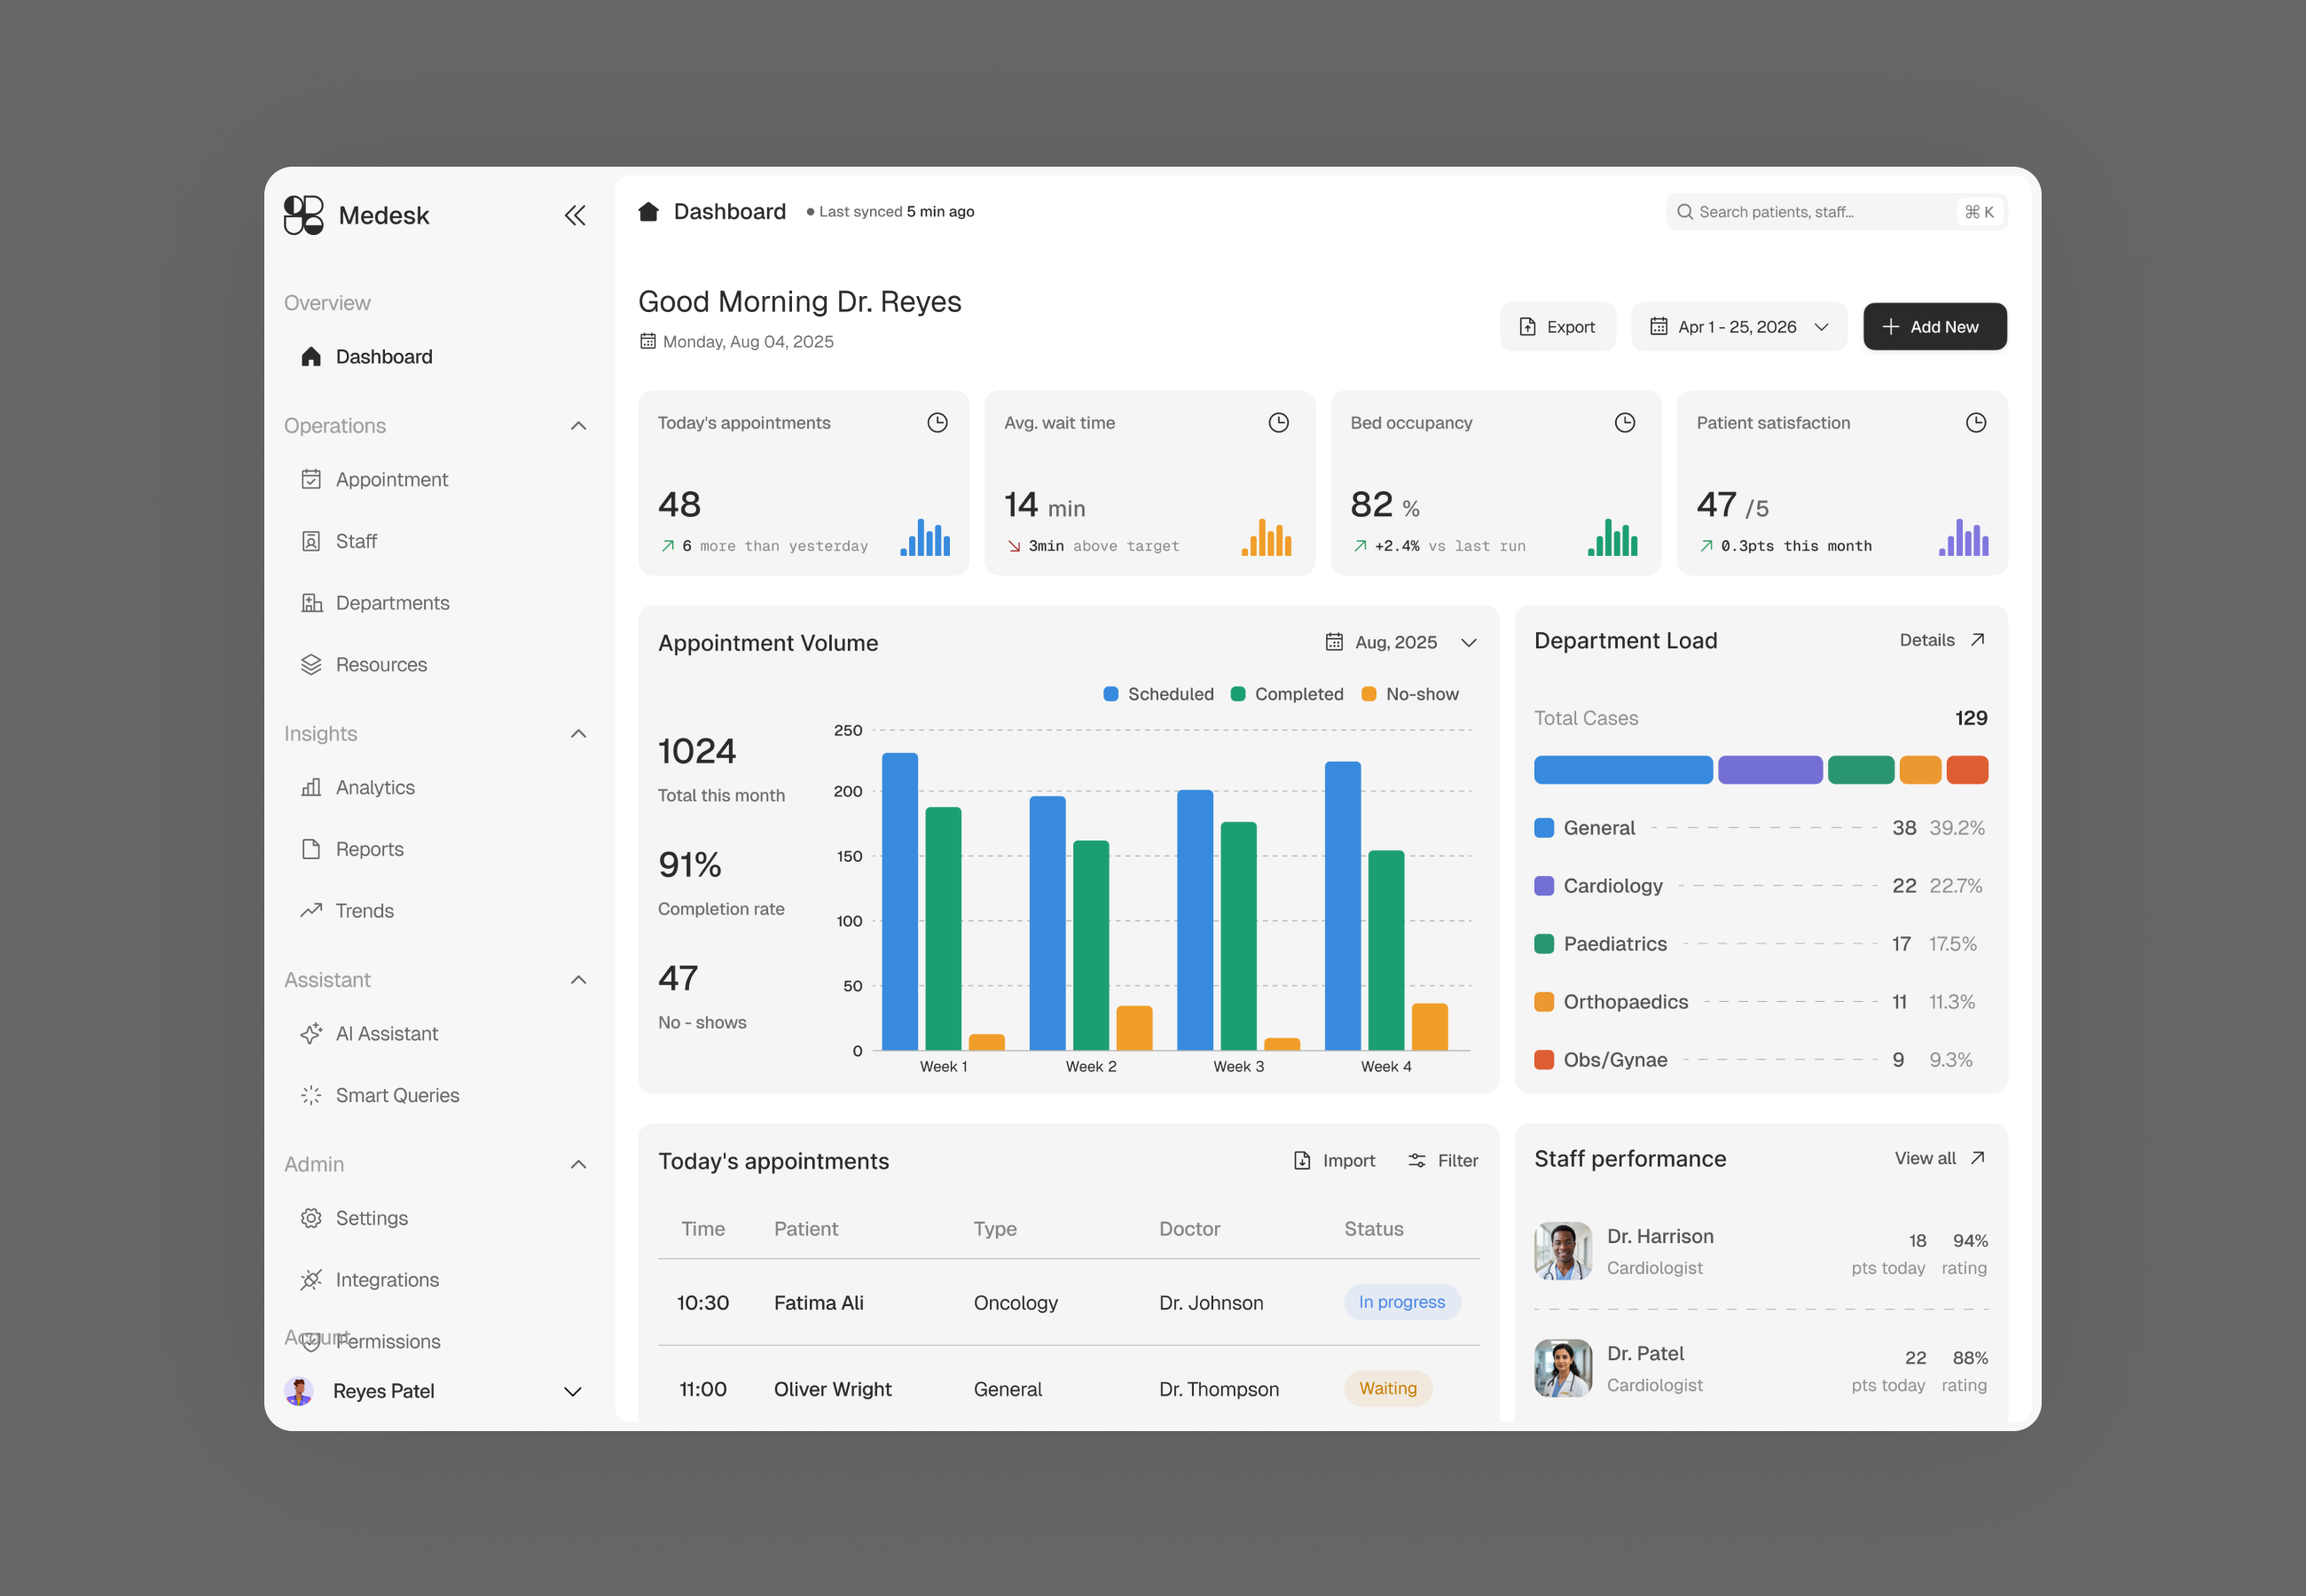
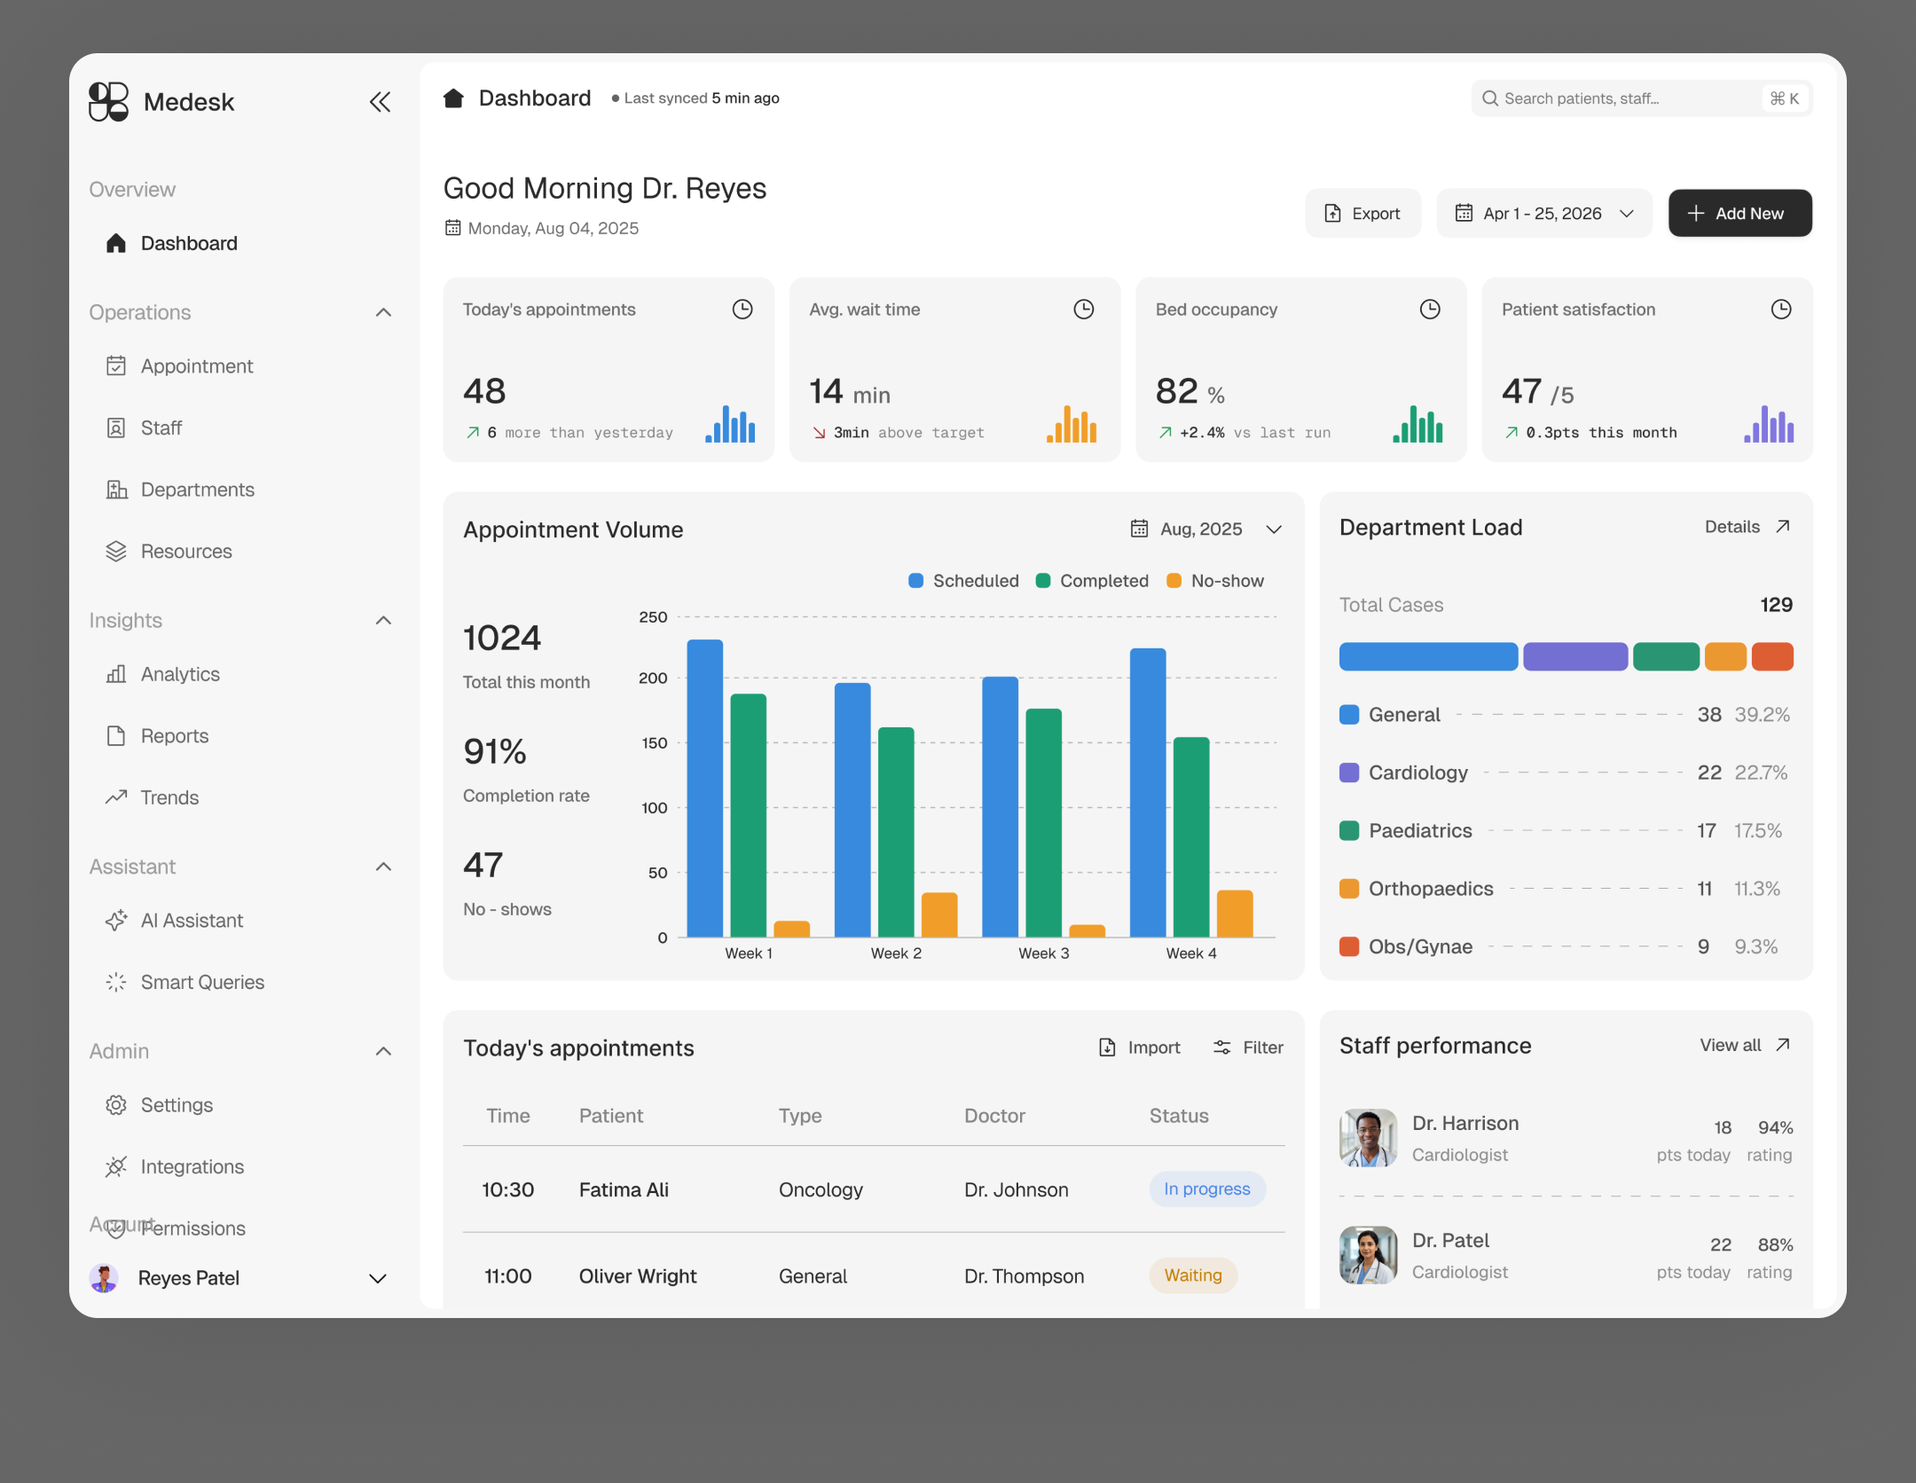
Crop showcase image margins, add Firebase Hosting config

diff --git a/src/pages/home.tsx b/src/pages/home.tsx
@@ -33,7 +33,7 @@ function ProductShowcase() {
             src={product.image}
             alt={`${product.name} preview`}
           />
-          <div className="flex flex-col gap-3 border-t border-border/80 bg-card px-4 py-3 sm:absolute sm:inset-x-5 sm:bottom-5 sm:flex-row sm:items-center sm:justify-between sm:gap-6 sm:border sm:bg-background/85 sm:py-2.5 sm:backdrop-blur-md">
+          <div className="flex flex-col gap-3 border-t border-border/80 bg-card px-4 py-3 sm:absolute sm:inset-x-5 sm:bottom-3 sm:flex-row sm:items-center sm:justify-between sm:gap-6 sm:border sm:bg-background/85 sm:py-2.5 sm:backdrop-blur-md">
             <div className="flex min-w-0 items-center gap-3 sm:shrink-0">
               <span className="shrink-0 text-sm leading-5 font-bold text-foreground">{product.name}</span>
               <span className="truncate text-xs leading-5 font-medium text-muted-foreground">{product.category}</span>
